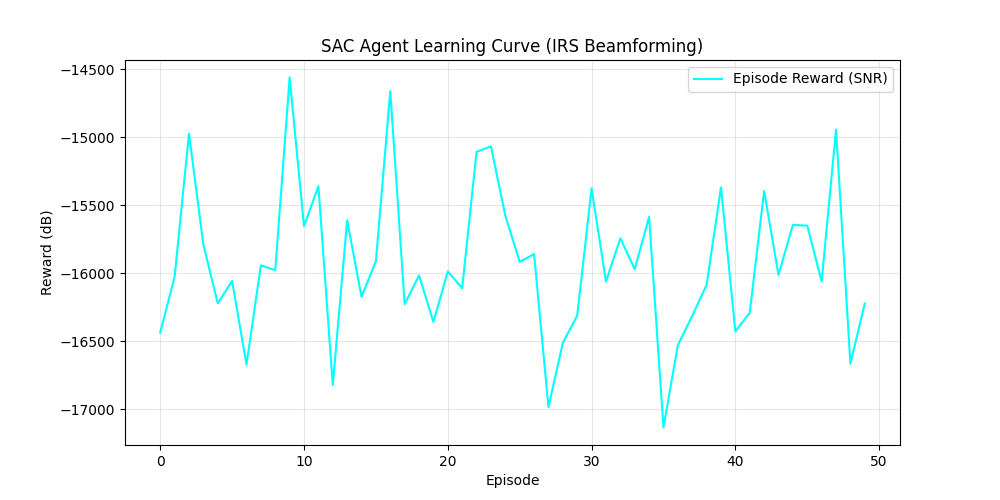
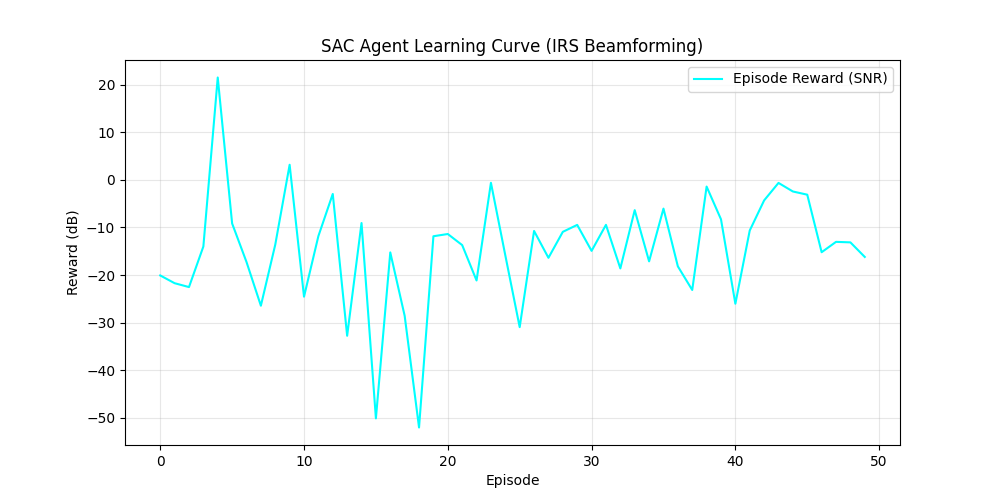
Refactor: Reduce IRS array size to 8x8 (64 elements) for faster SAC convergence

diff --git a/python/physics/visualize_heatmap.py b/python/physics/visualize_heatmap.py
@@ -32,8 +32,8 @@ def main():
     Z_rand = np.zeros_like(X)
     Z_opt = np.zeros_like(X)
     
-    # Use a larger 16x16 array (256 elements) for a much sharper "spotlight" beam
-    irs_panel = IRSArray(16, 16)
+    # Use an 8x8 array (64 elements) for a sharper "spotlight" beam
+    irs_panel = IRSArray(8, 8)
     
     # 1. Prepare Random Phase Matrix
     irs_panel.set_random_phases()

diff --git a/python/dashboard/app.py b/python/dashboard/app.py
@@ -57,7 +57,7 @@ Welcome to the **IRS-Sim Research Platform**. This dashboard bridges the gap bet
 ### 🔬 Architecture Overview
 This platform is split into two primary research modules, accessible via the sidebar:
 
-1. **Simulation Twin**: A purely mathematical and AI-driven environment. Watch in real-time as a PyTorch Deep Q-Network dynamically alters the phase shifts of a 256-element IRS to steer a 28 GHz signal around physical blockages.
+1. **Simulation Twin**: A purely mathematical and AI-driven environment. Watch in real-time as a PyTorch Deep Q-Network dynamically alters the phase shifts of a 64-element IRS to steer a 28 GHz signal around physical blockages.
 2. **Lab Experiments**: The hardware interface. Upload raw `.csv` telemetry data from Software Defined Radios (SDRs) and the physical IRS board to validate the simulation models against real-world scattering and hardware quantization loss.
 
 ---

diff --git a/python/dashboard/pages/1_Simulation_Twin.py b/python/dashboard/pages/1_Simulation_Twin.py
@@ -26,7 +26,7 @@ optimization_mode = st.sidebar.radio(
 
 bs_pos = (0, 50, 5)     
 irs_pos = (50, 0, 3)    
-irs_panel = IRSArray(16, 16)
+irs_panel = IRSArray(8, 8)
 
 @st.cache_data
 def get_grid_channels():

diff --git a/python/drl/irs_env.py b/python/drl/irs_env.py
@@ -13,7 +13,7 @@ class IRSEnv(gym.Env):
     """
     Custom Environment for optimizing IRS phases using DRL.
     """
-    def __init__(self, room_size=100.0, num_elements_x=16, num_elements_y=16):
+    def __init__(self, room_size=100.0, num_elements_x=8, num_elements_y=8):
         super(IRSEnv, self).__init__()
         
         self.room_size = room_size

diff --git a/python/drl/train_agent.py b/python/drl/train_agent.py
@@ -11,7 +11,7 @@ def main():
     print("--- IRS-Sim DRL Training (SAC) ---")
     
     # 1. Initialize Environment and Agent
-    env = IRSEnv(room_size=100.0, num_elements_x=16, num_elements_y=16)
+    env = IRSEnv(room_size=100.0, num_elements_x=8, num_elements_y=8)
     state_dim = env.observation_space.shape[0]
     action_dim = env.action_space.shape[0]
     